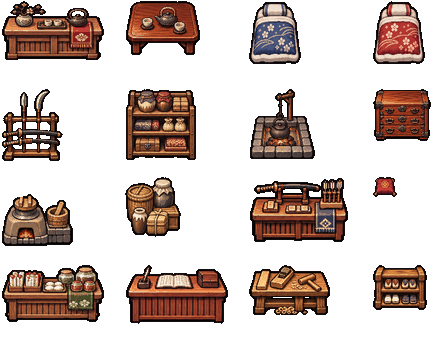
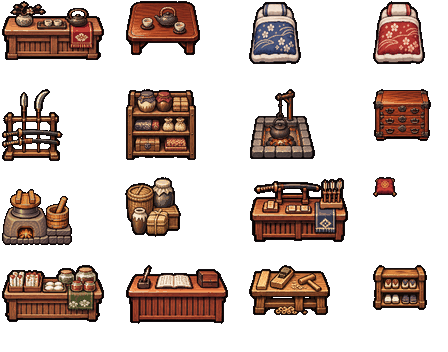
Replace damaged kitchen sprite with style-matched complete kamado asset

Changed region(s): [[0.0, 0.5312, 0.1562, 0.7188]]

diff --git a/src/game/interiors/index.html b/src/game/interiors/index.html
@@ -89,6 +89,6 @@ button:active,button.held,button[aria-pressed=true]{background:#e8cc8b;color:#27
 </section>
 <button id="sound-toggle" type="button" aria-label="サウンドを再生" aria-pressed="false">♪ 再生</button>
 </main>
-<script type="module" src="./walk.mjs?v=fb40c1b-equipment-4slots-2-find-hint-1-save-slots-1-nearby-1-interior-furniture-2px-1-wall-anchor-1-indoor-life-2-no-baked-steam-1"></script>
+<script type="module" src="./walk.mjs?v=fb40c1b-equipment-4slots-2-find-hint-1-save-slots-1-nearby-1-interior-furniture-2px-1-wall-anchor-1-indoor-life-3-kamado-replace-1"></script>
 </body>
 </html>

diff --git a/docs/INTERIOR_FURNITURE.md b/docs/INTERIOR_FURNITURE.md
@@ -68,3 +68,14 @@
 - `src/game/interiors/life-effects.mjs` の `kitchen` は鍋の上から `steam` を動的に発生させる（火口の炎も継続）。静止した湯気を再度PNGに描き込まない。
 - 家具の外形、表示サイズ、接地範囲、配置・通行判定は不変更。Safariが旧画像をキャッシュしないように版を更新。
 - かまどの静止湯気領域の透明・鍋の残存・アニメーション発生位置を自動テストで確認。本編実機表示は別途確認する。
+
+## かまどの完全差し替え（2026-11-17）
+
+前回は静止湯気をピクセル単位で消したため、鍋の輪郭の一部まで欠けた。今回は既存のかまど画像を継ぎ足して直すのではなく、本作向けに作成済みのかまど原画をほかの家具に合わせて**素材化して交換**した。
+
+- 外部向けの新たな画像生成は行わず、既存候補からかまどと臼の構成を採用。2px単位の輪郭と48色のパレットに整理し、かまど枠の論理寸法74×72pxに収め、既存家具アトラスの `kitchen` スロット（148×144px）だけ差し替えた。
+- 元画像の編集可能な正本は `source-assets/village/interiors/furniture-master.png`。ゲーム用の `assets/village/interiors/furniture.png` はこの論理原本を**最近傍2倍**に拡大したもの。ほかの家具15種の画素は変更なし。
+- 差し替えは描画時に個別拡大縮小せず、壁寄せ・当たり判定 `[8,74,132,66]` ・設置位置をすべて維持。
+- 生成済みの新しい画像には静止した湯気を描き込まない。鍋の上からの動的な湯気は `src/game/interiors/life-effects.mjs` のエミッタ（`kitchen`）をY=28へ合わせ、火口は既存の動く炎を維持。
+- 画像の透明な余白、鍋の持ち手、蓋、かまど本体、火口、臼の欠け、アトラスの2px再生成一致、動的湯気の位置を自動検査で確認する。キャッシュキーも更新し、旧版PNGの残留を防ぐ。
+- ソースの意味する完成の度合いと、iPhone Safariでの実機レビューは別。実機では茶店・農家のかまどの欠け、炎の位置、湯気の見え方を確認する。
